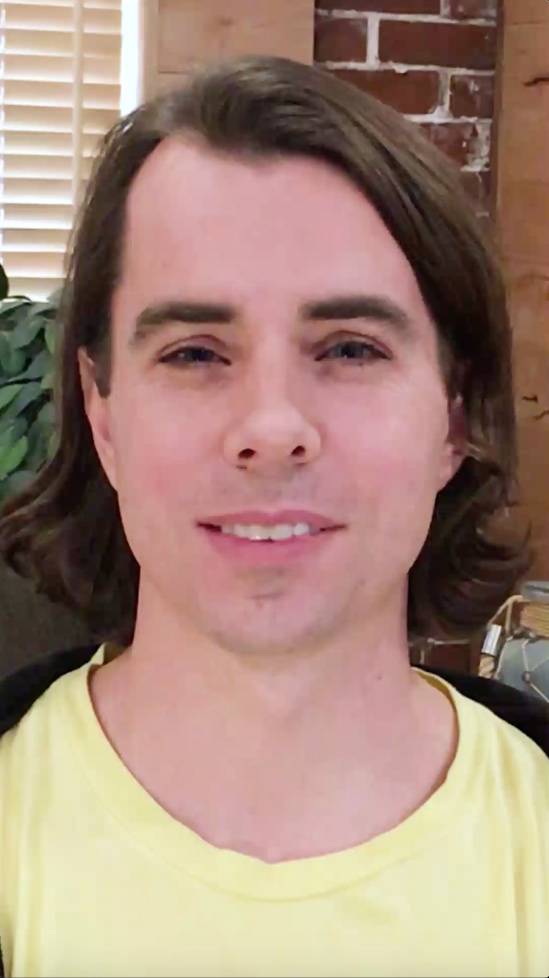
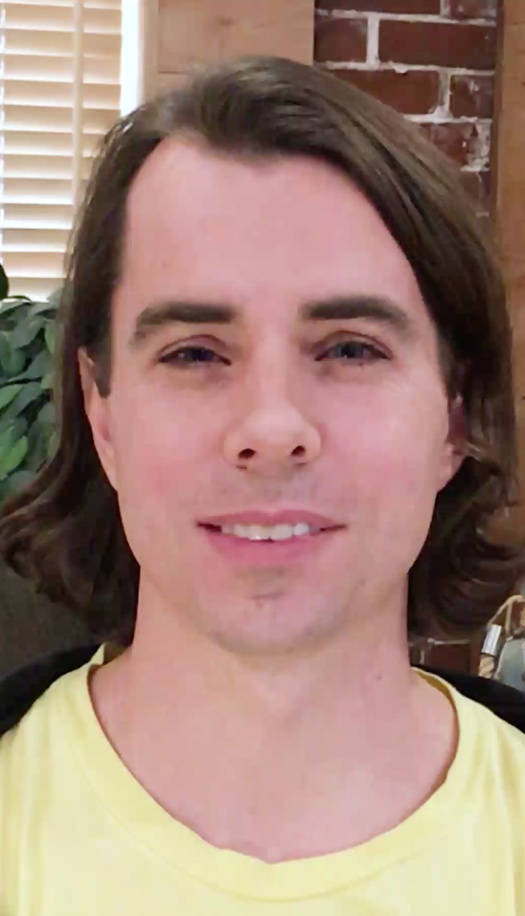
re-cropped intro video thumbnail and replay enabld

diff --git a/Components/Home/Home.js b/Components/Home/Home.js
@@ -32,7 +32,8 @@ class Home extends React.Component {
       currentTime: null,
       secondaryHide: false,
       introPlayed: false,
-      paused: true
+      paused: true,
+      fullscreen: false
     }
   }
 
@@ -100,7 +101,7 @@ class Home extends React.Component {
       currentlyPlayingName,
       showOverview
     } = this.props;
-    let { loaded, showVid, paused, introPlayed } = this.state;
+    let { loaded, showVid, paused, introPlayed, fullscreen } = this.state;
     let isFocused = navigation.isFocused();
     let mode = eventEmitter.currentMode;
     let dark = mode === 'dark';
@@ -119,15 +120,21 @@ class Home extends React.Component {
         { !showOverview ?
         <View style = { styles.homeMid }>
           <View style = { styles.centerImageContainer }>
-            {!loaded ? <Image
-              source={ require('./images/backgroundImage.jpg')}
-              style={ styles.thumb }
-            /> : null}
+            {!loaded ? 
+            <TouchableOpacity>
+              <Image
+                source={ require('./images/backgroundImage.jpg')}
+                style={ styles.thumb }
+              />
+            </TouchableOpacity> : null}
             {
               loaded && !showVid ?
               <TouchableOpacity
                 onPress={ ()=>{
-                  this.setState({showVid:true, paused: false, secondaryHide:false})
+                  this.player.presentFullscreenPlayer();
+                  setTimeout(() => {
+                    this.setState({showVid:true, paused: false, secondaryHide:false })
+                  }, 200);
                 }}
               >
                 <Image
@@ -140,10 +147,9 @@ class Home extends React.Component {
             { !audioPlaying ? 
             <Video
               source={CurricuDumbIntro}// Can be a URL or a local file.
-              ref={(ref) => {
+              ref={ref => {
                 this.player = ref
               }}
-              poster = { Image.resolveAssetSource(require('./images/backgroundImage.jpg')).uri }
               posterResizeMode = { "cover" }
               paused = { !paused&&isFocused?false:true }
               onLoad = { () => {
@@ -153,6 +159,13 @@ class Home extends React.Component {
                 this.setState({
                   paused: true, 
                   showVid: false
+                });
+                this.player.dismissFullscreenPlayer();
+              }}
+              onTouchStart = { () => {
+                this.setState({
+                  paused: !this.state.paused, 
+                  showVid: !this.state.showVid
                 });
               }}
               onProgress = { () => {
@@ -165,20 +178,28 @@ class Home extends React.Component {
                   Analytics.logEvent('select_content', {introductionVideo: 'Played'});
                 }
               }}
-              repeat = { false }
-              fullscreen = { false }
+              onFullscreenPlayerWillDismiss = {() => {
+                this.setState({
+                  showVid: false,
+                  paused: true
+                });
+              }}
+              repeat = { true }
+              fullscreen = { true }
+              fullscreenAutorotate = { false }
+              fullscreenOrientation = { "portrait" }
               resizeMode = { "cover" }
-              controls = { true }
-              style = { !showVid || !isFocused?styles.IntroductionVideoBeforeLoad:styles.IntroductionVideo }
+              controls = { false }
+              style = { !showVid || !isFocused ? styles.IntroductionVideoBeforeLoad : styles.IntroductionVideo }
             /> : null}
           </View>
         </View>: null }
         { selectedTrack ? 
           <View 
-            style={ showOverview?styles.overviewContainer:
-              height < 570?styles.altAltOverviewContainer:
-              height > 700 && height < 800?styles.longAltOverviewContanier:
-              height > 800?styles.longerAltOverviewContanier:
+            style={ showOverview ? styles.overviewContainer :
+              height < 570 ? styles.altAltOverviewContainer :
+              height > 700 && height < 800 ? styles.longAltOverviewContanier :
+              height > 800 ? styles.longerAltOverviewContanier :
               styles.altOverviewContainer 
             }
           >

diff --git a/Components/Home/style.js b/Components/Home/style.js
@@ -4,6 +4,9 @@ import {
 } from 'react-native/Libraries/NewAppScreen';
 import { eventEmitter } from 'react-native-dark-mode';
 
+const width = Dimensions.get('window').width;
+const height = Dimensions.get('window').height;
+
 const mode = eventEmitter.currentMode;
 const dark = mode === 'dark';
 
@@ -42,10 +45,6 @@ export const styles = StyleSheet.create({
         left: 0,
         right:0,
         top:0
-    },
-    thumb: {
-        height: Dimensions.get('window').height - 160,
-        width: Dimensions.get('window').width,
     },
     altOverviewContainer: {
         flex: 2,
@@ -87,11 +86,19 @@ export const styles = StyleSheet.create({
         height: 60,
         backgroundColor: "#212121"
     },
+    thumb: {
+        height: height > 750 ? '100%' : '115%',
+        width,
+        resizeMode: 'stretch'
+    },
     centerImageContainer: {
         display: "flex",
         flexDirection: "column",
         flex:1,
+        height: height - 160,
+        width,
         alignContent: "center",
+        alignItems: "center",
         justifyContent: "center"
     },
     centerImage: {
